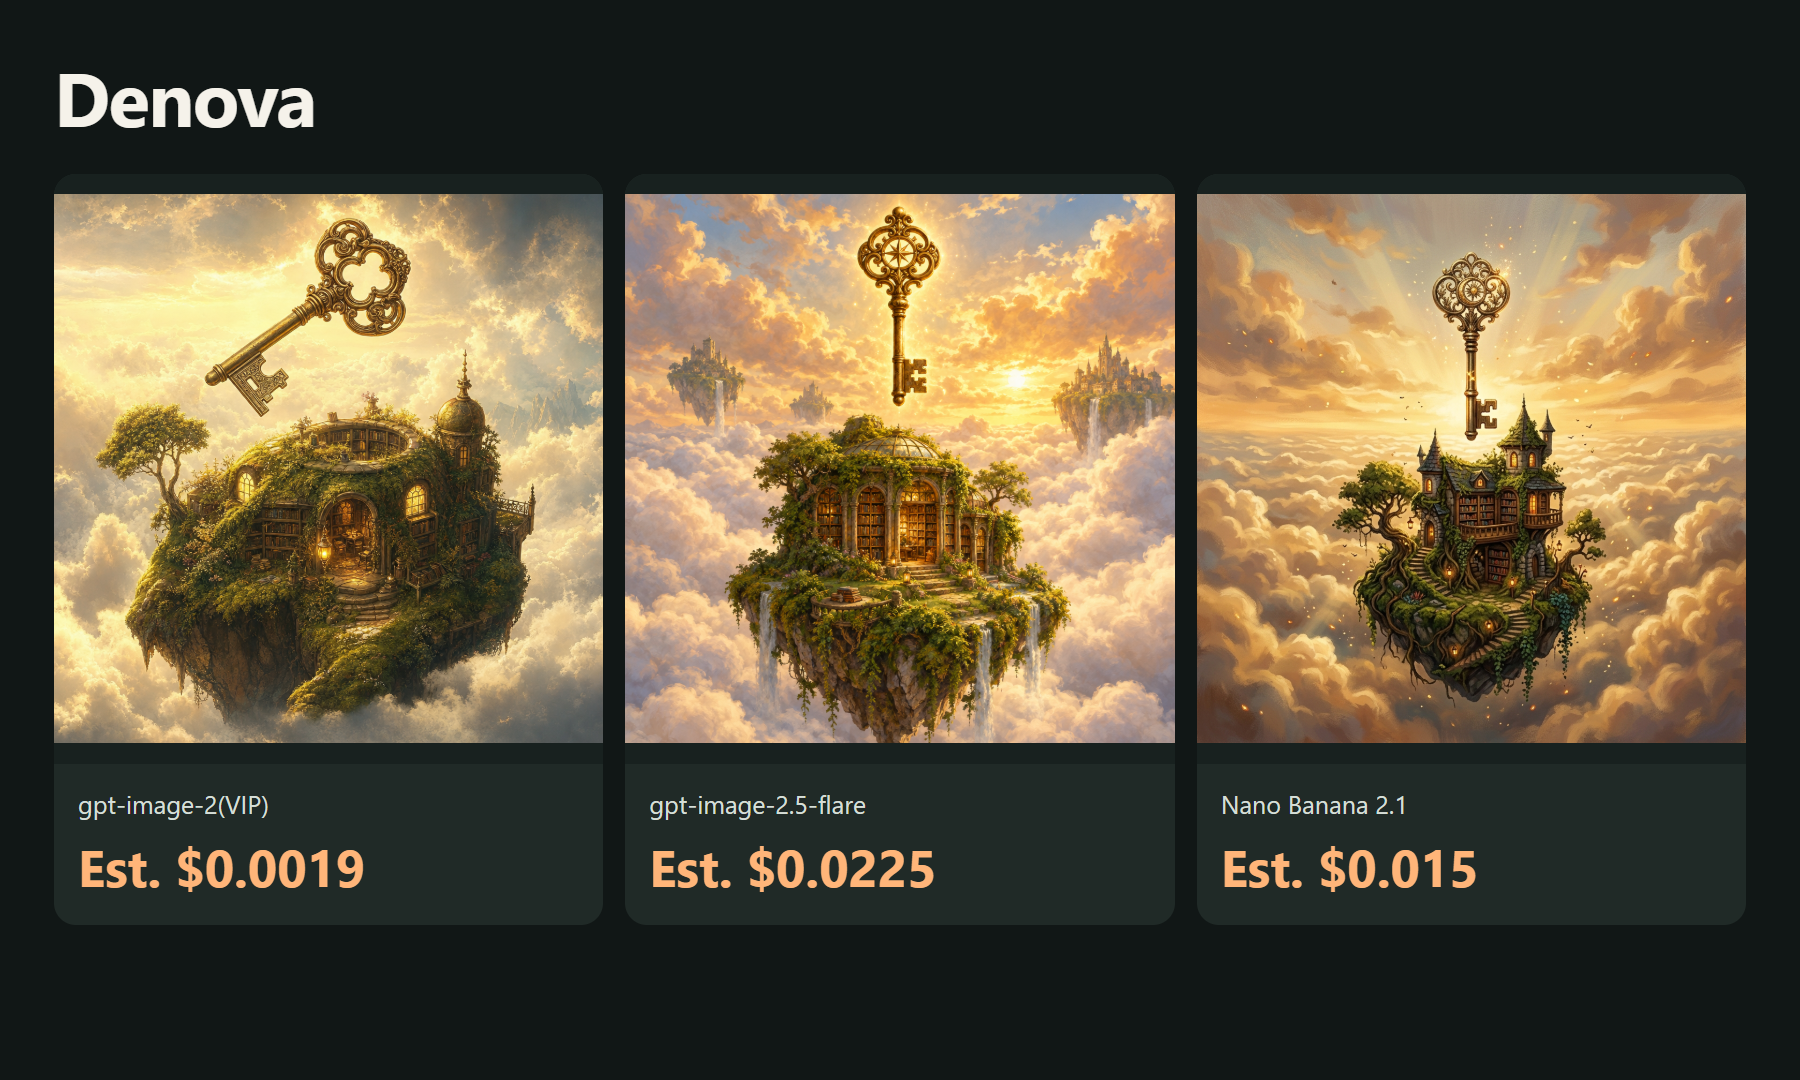
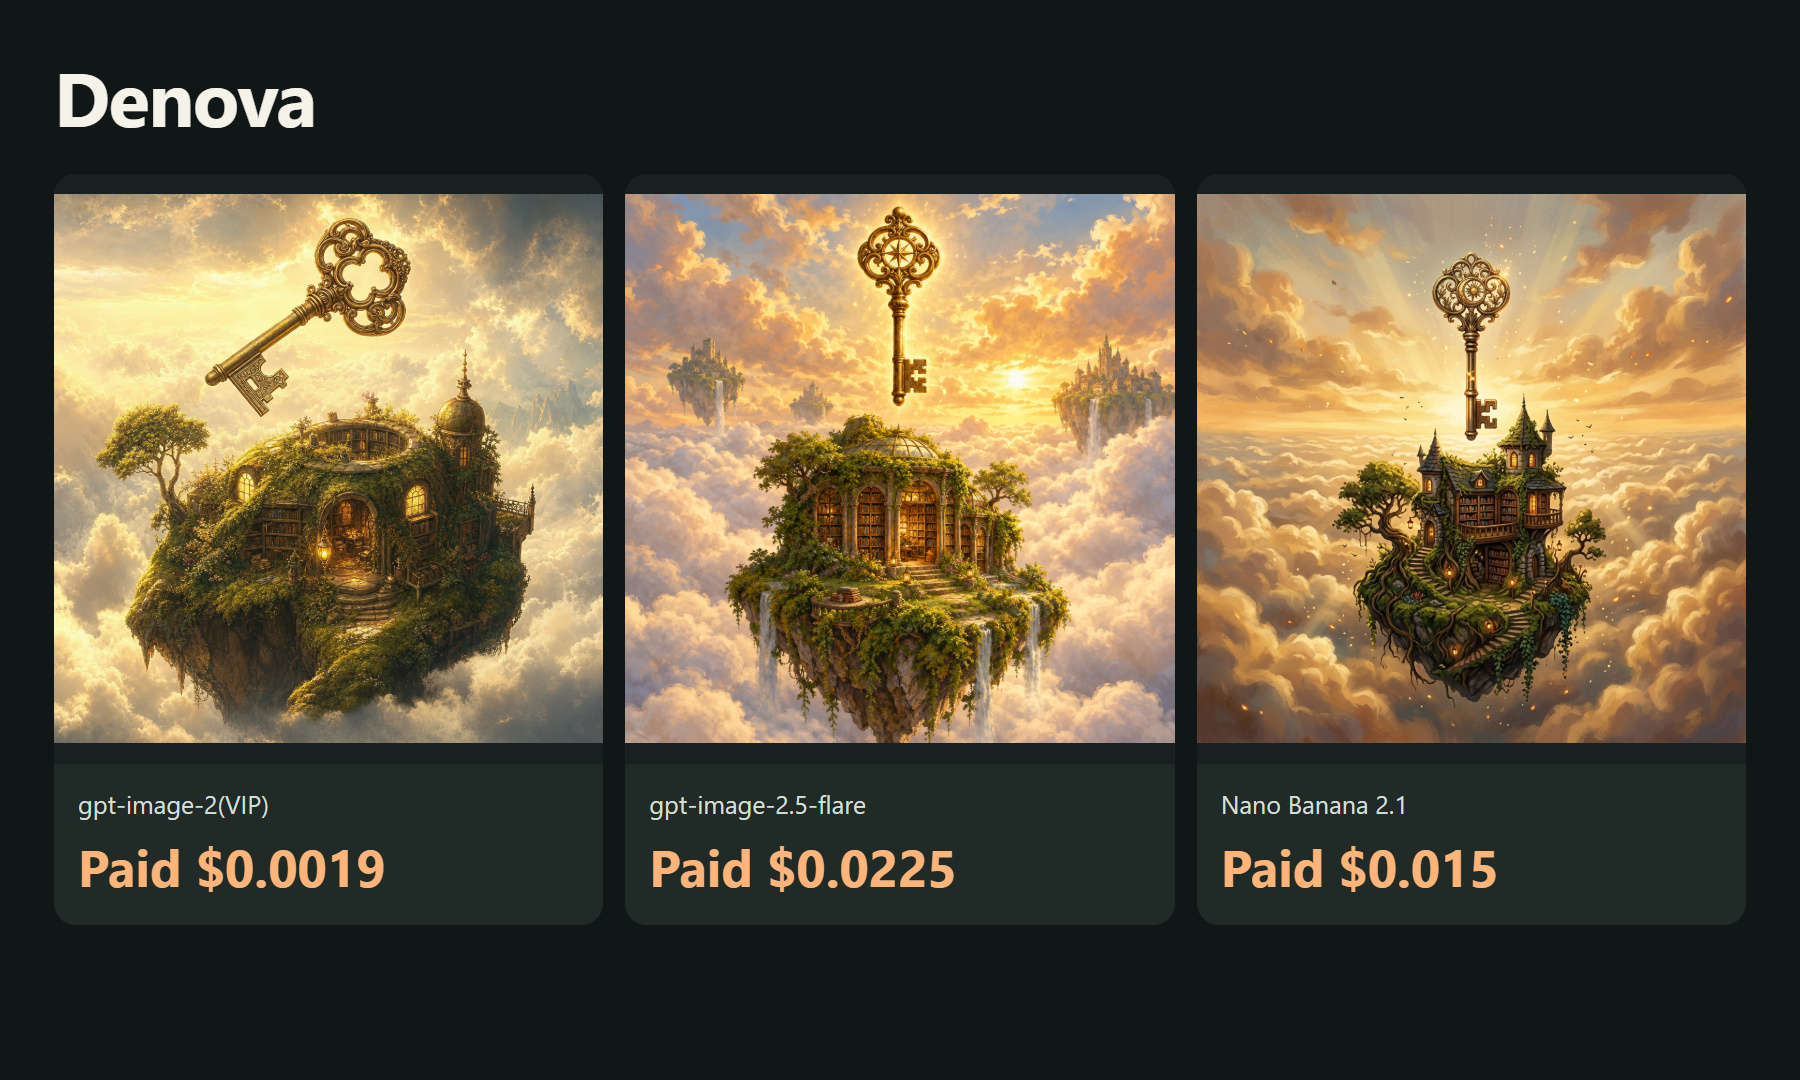
Publish original bilingual ToAPIs media examples, model pricing and real outputs

Changed region(s): [[0.0311, 0.7639, 0.2178, 0.825], [0.6844, 0.7639, 0.84, 0.825], [0.3733, 0.7639, 0.5289, 0.825]]

diff --git a/screenshots/cn/01-image-cases.html b/screenshots/cn/01-image-cases.html
@@ -1,1 +1,1 @@
-<!doctype html><html lang="zh-CN"><meta charset="utf-8"><title>Denova</title><style>*{box-sizing:border-box}html,body{margin:0;width:1800px;height:1080px;overflow:hidden}body{background:#111716;color:#f5f2ea;font-family:"Segoe UI","Microsoft YaHei",sans-serif}.page{padding:54px 54px 40px}h1{font-size:76px;line-height:1.1;margin:0 0 36px;font-weight:650;letter-spacing:-1.5px}.grid{display:grid;gap:22px}.case{background:#202a27;border-radius:22px;overflow:hidden}.case img{display:block;width:100%;height:590px;object-fit:contain;background:#18211f}.caption{padding:24px 24px 28px}.model{font-size:25px;line-height:1.3;color:#d5dfd7;white-space:nowrap}.price{font-size:51px;line-height:1.2;color:#ffb579;font-weight:650;margin-top:16px}.video .case img{height:610px}.video .model{font-size:30px}.video .price{font-size:50px}</style><main class="page "><h1>Denova</h1><div class="grid" style="grid-template-columns:repeat(3,1fr)"><section class="case"><img src="../../examples/gpt-image-2-vip.png"><div class="caption"><div class="model">gpt-image-2(VIP)</div><div class="price">预计 $0.0019</div></div></section><section class="case"><img src="../../examples/gpt-image-2-5-flare.png"><div class="caption"><div class="model">gpt-image-2.5-flare</div><div class="price">预计 $0.0225</div></div></section><section class="case"><img src="../../examples/gemini-nano-banana-2-1.png"><div class="caption"><div class="model">Nano Banana 2.1</div><div class="price">预计 $0.015</div></div></section></div></main></html>
+<!doctype html><html lang="zh-CN"><meta charset="utf-8"><title>Denova</title><style>*{box-sizing:border-box}html,body{margin:0;width:1800px;height:1080px;overflow:hidden}body{background:#111716;color:#f5f2ea;font-family:"Segoe UI","Microsoft YaHei",sans-serif}.page{padding:54px 54px 40px}h1{font-size:76px;line-height:1.1;margin:0 0 36px;font-weight:650;letter-spacing:-1.5px}.grid{display:grid;gap:22px}.case{background:#202a27;border-radius:22px;overflow:hidden}.case img{display:block;width:100%;height:590px;object-fit:contain;background:#18211f}.caption{padding:24px 24px 28px}.model{font-size:25px;line-height:1.3;color:#d5dfd7;white-space:nowrap}.price{font-size:51px;line-height:1.2;color:#ffb579;font-weight:650;margin-top:16px}.video .case img{height:610px}.video .model{font-size:30px}.video .price{font-size:50px}</style><main class="page "><h1>Denova</h1><div class="grid" style="grid-template-columns:repeat(3,1fr)"><section class="case"><img src="../../examples/gpt-image-2-vip.png"><div class="caption"><div class="model">gpt-image-2(VIP)</div><div class="price">实扣 $0.0019</div></div></section><section class="case"><img src="../../examples/gpt-image-2-5-flare.png"><div class="caption"><div class="model">gpt-image-2.5-flare</div><div class="price">实扣 $0.0225</div></div></section><section class="case"><img src="../../examples/gemini-nano-banana-2-1.png"><div class="caption"><div class="model">Nano Banana 2.1</div><div class="price">实扣 $0.015</div></div></section></div></main></html>

diff --git a/screenshots/en/01-image-cases.html b/screenshots/en/01-image-cases.html
@@ -1,1 +1,1 @@
-<!doctype html><html lang="en"><meta charset="utf-8"><title>Denova</title><style>*{box-sizing:border-box}html,body{margin:0;width:1800px;height:1080px;overflow:hidden}body{background:#111716;color:#f5f2ea;font-family:"Segoe UI","Microsoft YaHei",sans-serif}.page{padding:54px 54px 40px}h1{font-size:76px;line-height:1.1;margin:0 0 36px;font-weight:650;letter-spacing:-1.5px}.grid{display:grid;gap:22px}.case{background:#202a27;border-radius:22px;overflow:hidden}.case img{display:block;width:100%;height:590px;object-fit:contain;background:#18211f}.caption{padding:24px 24px 28px}.model{font-size:25px;line-height:1.3;color:#d5dfd7;white-space:nowrap}.price{font-size:51px;line-height:1.2;color:#ffb579;font-weight:650;margin-top:16px}.video .case img{height:610px}.video .model{font-size:30px}.video .price{font-size:50px}</style><main class="page "><h1>Denova</h1><div class="grid" style="grid-template-columns:repeat(3,1fr)"><section class="case"><img src="../../examples/gpt-image-2-vip.png"><div class="caption"><div class="model">gpt-image-2(VIP)</div><div class="price">Est. $0.0019</div></div></section><section class="case"><img src="../../examples/gpt-image-2-5-flare.png"><div class="caption"><div class="model">gpt-image-2.5-flare</div><div class="price">Est. $0.0225</div></div></section><section class="case"><img src="../../examples/gemini-nano-banana-2-1.png"><div class="caption"><div class="model">Nano Banana 2.1</div><div class="price">Est. $0.015</div></div></section></div></main></html>
+<!doctype html><html lang="en"><meta charset="utf-8"><title>Denova</title><style>*{box-sizing:border-box}html,body{margin:0;width:1800px;height:1080px;overflow:hidden}body{background:#111716;color:#f5f2ea;font-family:"Segoe UI","Microsoft YaHei",sans-serif}.page{padding:54px 54px 40px}h1{font-size:76px;line-height:1.1;margin:0 0 36px;font-weight:650;letter-spacing:-1.5px}.grid{display:grid;gap:22px}.case{background:#202a27;border-radius:22px;overflow:hidden}.case img{display:block;width:100%;height:590px;object-fit:contain;background:#18211f}.caption{padding:24px 24px 28px}.model{font-size:25px;line-height:1.3;color:#d5dfd7;white-space:nowrap}.price{font-size:51px;line-height:1.2;color:#ffb579;font-weight:650;margin-top:16px}.video .case img{height:610px}.video .model{font-size:30px}.video .price{font-size:50px}</style><main class="page "><h1>Denova</h1><div class="grid" style="grid-template-columns:repeat(3,1fr)"><section class="case"><img src="../../examples/gpt-image-2-vip.png"><div class="caption"><div class="model">gpt-image-2(VIP)</div><div class="price">Paid $0.0019</div></div></section><section class="case"><img src="../../examples/gpt-image-2-5-flare.png"><div class="caption"><div class="model">gpt-image-2.5-flare</div><div class="price">Paid $0.0225</div></div></section><section class="case"><img src="../../examples/gemini-nano-banana-2-1.png"><div class="caption"><div class="model">Nano Banana 2.1</div><div class="price">Paid $0.015</div></div></section></div></main></html>

diff --git a/README.md b/README.md
@@ -4,7 +4,7 @@
 
 Write stories and generate their illustrations.
 
-October 16, 2026: 3 real images. Catalog estimate for these completed assets: **$0.0394**; settled charges pending.
+October 16, 2026: 3 real images. Confirmed charge for these completed assets: **$0.0394 (7.88 credits)**, reconciled by task ID against the owner-provided dashboard export.
 
 [ToAPIs · model pricing and setup](https://go2v.toapis.com/dn16ge)
 
@@ -16,11 +16,11 @@ October 16, 2026: 3 real images. Catalog estimate for these completed assets: **
 
 | Model | Preset | Catalog estimate / output | Settled charge |
 |---|---|---:|---|
-| gpt-image-2(VIP) | low / 1K | $0.0019 | pending |
-| gpt-image-2.5-flare | high / 1K | $0.0225 | pending |
-| Nano Banana 2.1 | 1K | $0.015 | pending |
+| gpt-image-2(VIP) | low / 1K | $0.0019 | $0.0019 |
+| gpt-image-2.5-flare | high / 1K | $0.0225 | $0.0225 |
+| Nano Banana 2.1 | 1K | $0.015 | $0.015 |
 
-These are catalog estimates for the specified presets, not confirmed settled charges. Different models/presets do not imply equal quality. See evidence and examples for task records and originals.
+Catalog rates and confirmed charges match for these tested presets. Charges were reconciled against the owner-provided dashboard export at USD 0.005 per credit. Different models/presets do not imply equal quality. See evidence and examples for task records and originals.
 
 ## Run it
 

diff --git a/README_zh-CN.md b/README_zh-CN.md
@@ -4,7 +4,7 @@
 
 写小说、做互动故事，顺手生成配图。
 
-2026-10-16：3张真实图片；本批成功素材按价表估算 **$0.0394**，实际扣费待后台核对。
+2026-10-16：3张真实图片；本批成功素材实扣 **$0.0394（7.88积分）**，已按后台导出逐任务核对。
 
 [ToAPIs · 对应模型价格与接入](https://go2v.toapis.com/dn16gc)
 
@@ -16,11 +16,11 @@
 
 | Model | Preset | Catalog estimate / output | Settled charge |
 |---|---|---:|---|
-| gpt-image-2(VIP) | low / 1K | $0.0019 | 待核对 |
-| gpt-image-2.5-flare | high / 1K | $0.0225 | 待核对 |
-| Nano Banana 2.1 | 1K | $0.015 | 待核对 |
+| gpt-image-2(VIP) | low / 1K | $0.0019 | $0.0019 |
+| gpt-image-2.5-flare | high / 1K | $0.0225 | $0.0225 |
+| Nano Banana 2.1 | 1K | $0.015 | $0.015 |
 
-以上是本次明确配置的费率估算，不是已结算金额；不同模型/画质不表示同等质量。每项任务、请求和原始文件见evidence与examples。
+对应配置的价表与本次实扣一致；实扣来自后台导出，1积分=$0.005。不同模型/画质不表示同等质量。逐任务记录和原始文件见evidence与examples。
 
 ## 怎么运行
 
